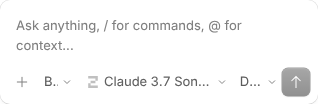
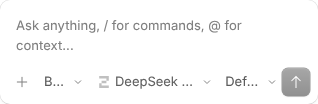
fix(app): prioritize agent and reasoning labels in narrow composers (#3)

Changed region(s): [[0.1981, 0.7212, 0.8208, 0.8654], [0.1698, 0.8077, 0.1981, 0.8365]]

diff --git a/packages/app/e2e/regression/prompt-input-mobile-toolbar.spec.ts b/packages/app/e2e/regression/prompt-input-mobile-toolbar.spec.ts
@@ -125,7 +125,8 @@ test("shows more agent, model, and reasoning effort label text in a narrow compo
   await expect(variant).toBeVisible()
 
   const ratios = await labelWidthRatios(page)
-  expect(ratios.agent).toBeGreaterThan(0.55)
-  expect(ratios.model).toBeGreaterThan(0.68)
-  expect(ratios.variant).toBeGreaterThan(0.6)
+  expect(ratios.agent).toBeGreaterThan(0.75)
+  expect(ratios.variant).toBeGreaterThan(0.75)
+  expect(ratios.model).toBeGreaterThan(0.4)
+  expect(ratios.model).toBeLessThan(0.72)
 })

diff --git a/packages/app/src/components/prompt-input-v2.tsx b/packages/app/src/components/prompt-input-v2.tsx
@@ -502,7 +502,7 @@ function PromptInputV2ModelControl(props: {
       <TooltipV2
         placement="top"
         gutter={4}
-        class="min-w-0"
+        class="min-w-0 shrink-[3]"
         value={
           <>
             {props.title}
